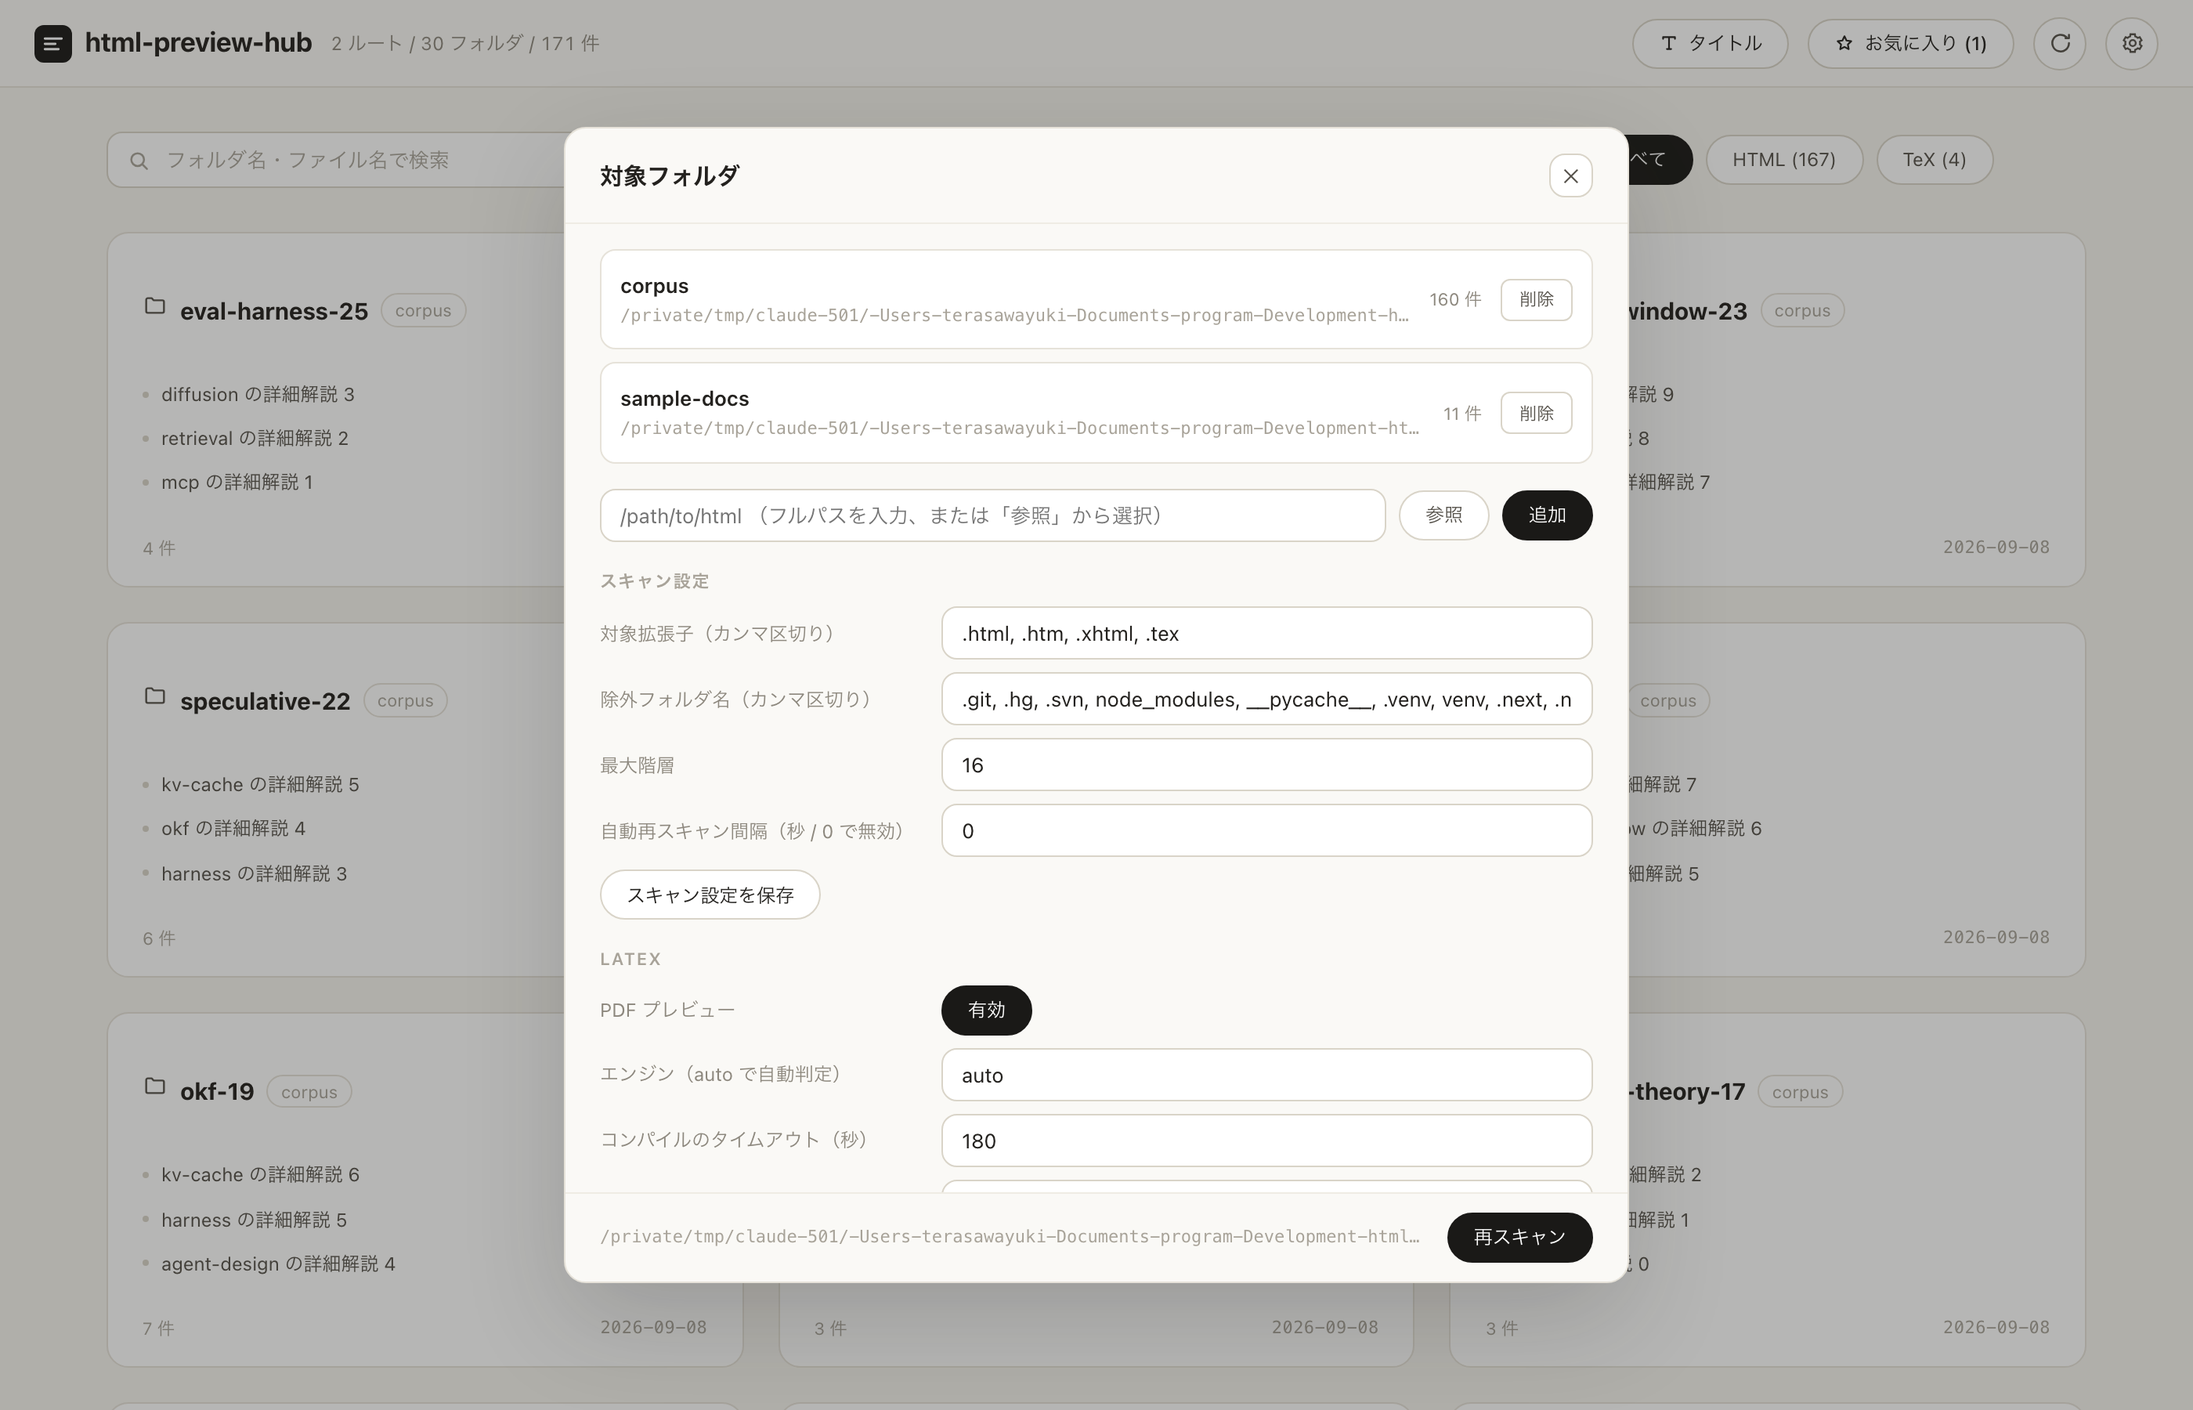
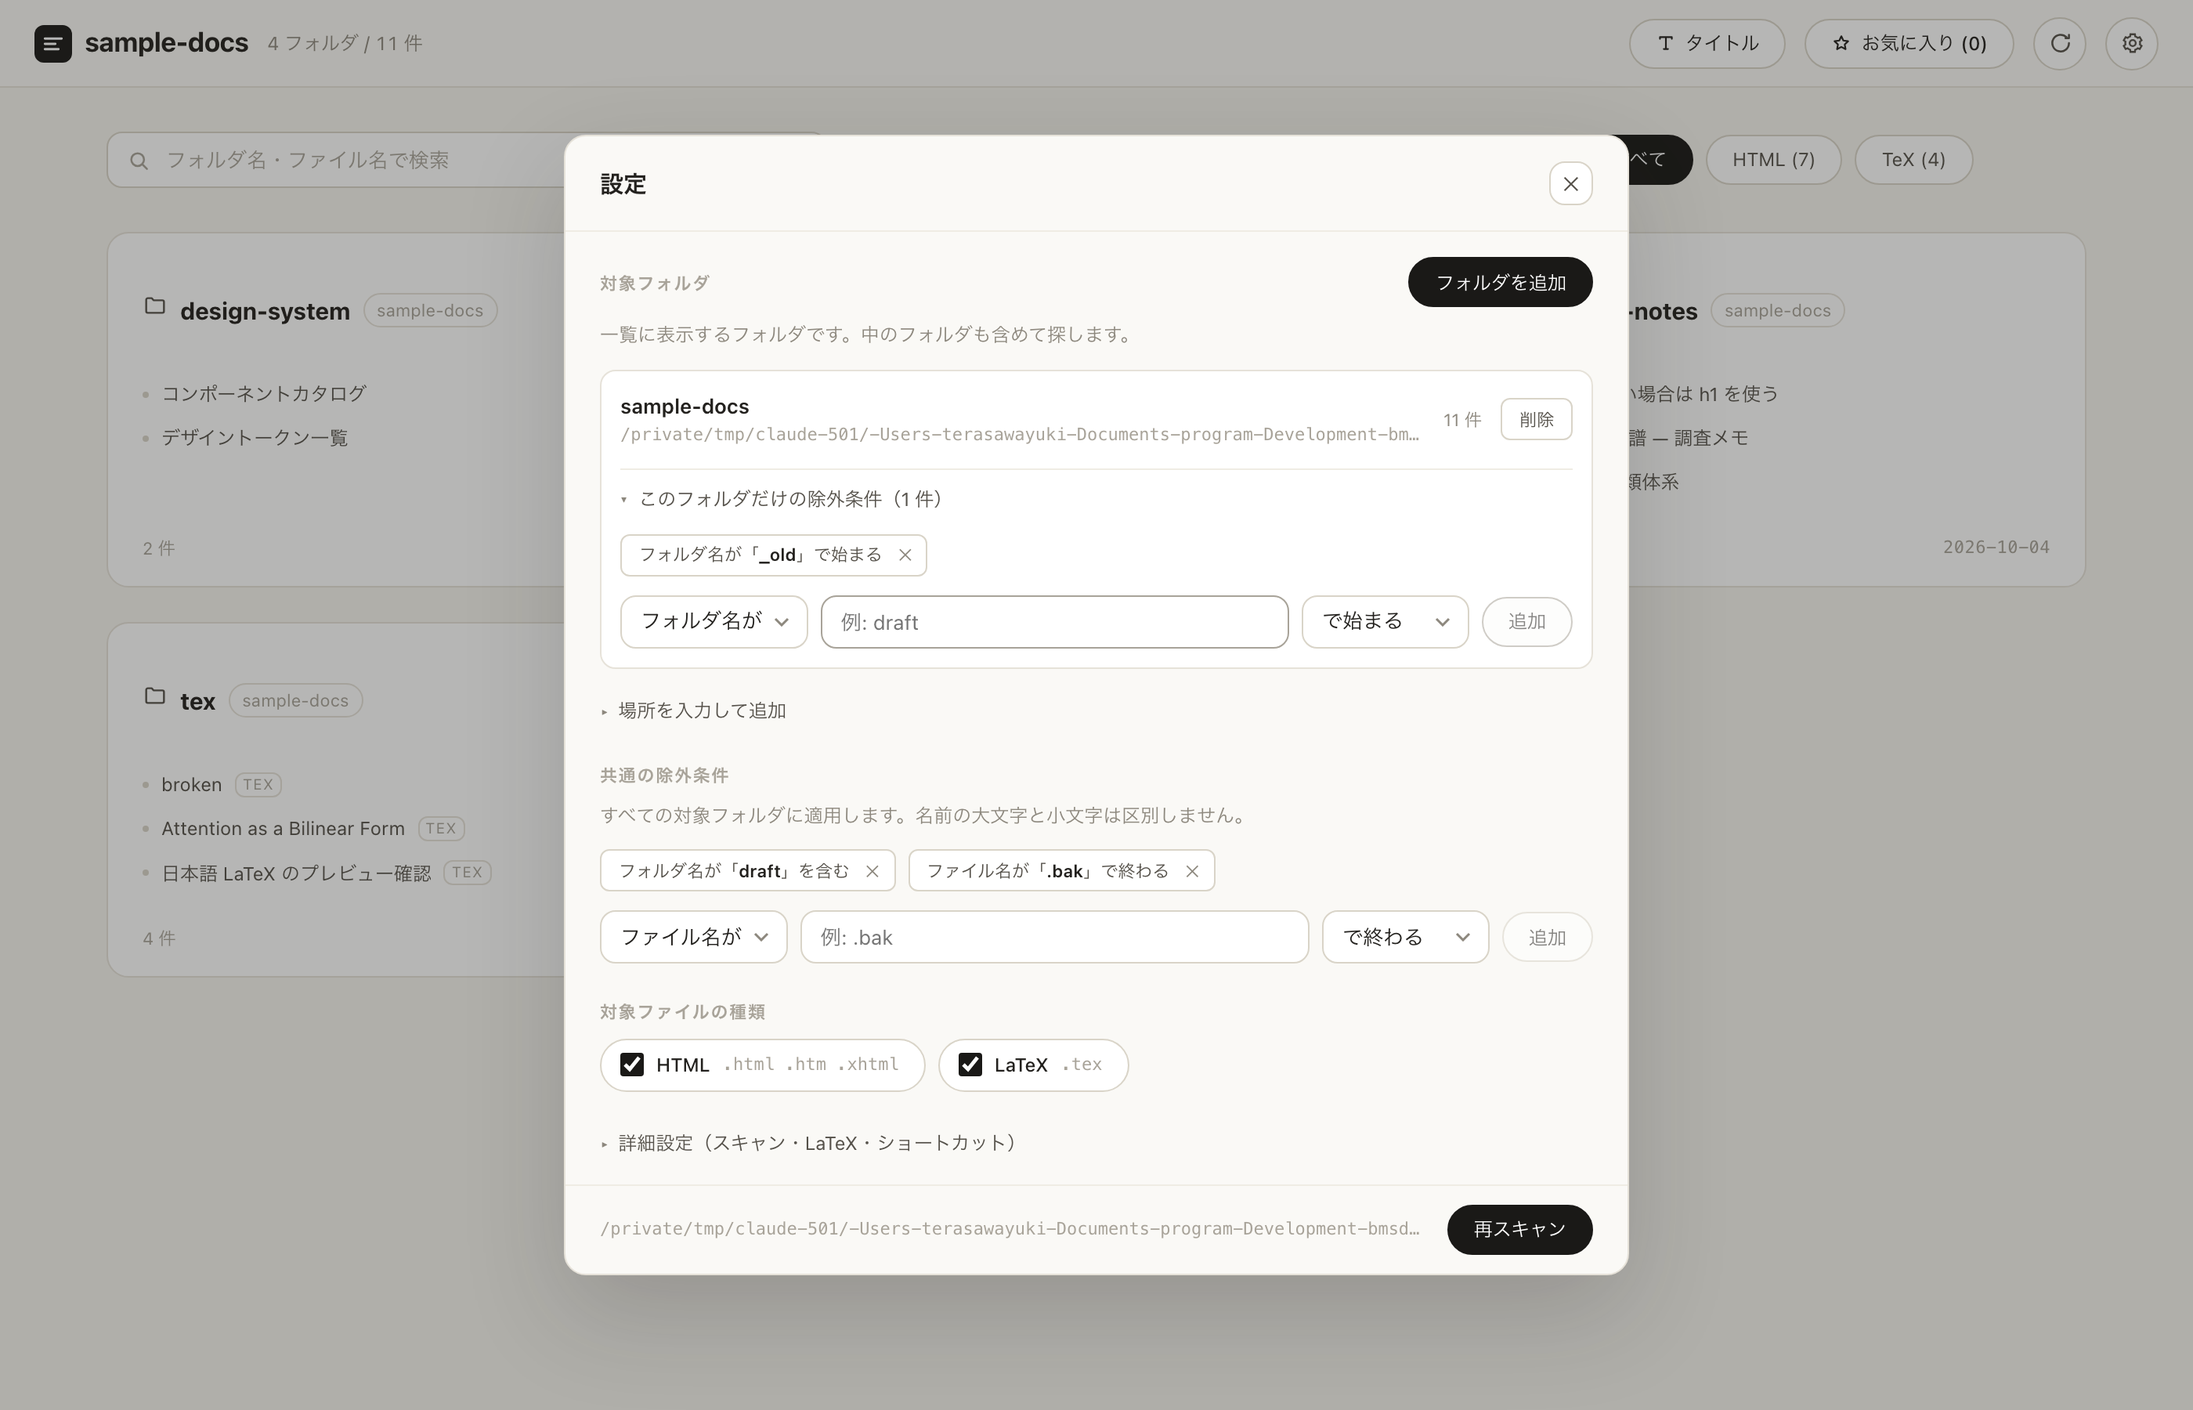
docs: 除外条件とフォルダの選択を文書に反映する
Claude-Session: https://claude.ai/code/session_01EVah3xdQJ6H4bRWP4VoebM

diff --git a/docs/architecture.md b/docs/architecture.md
@@ -28,7 +28,9 @@ html-preview-hub/
 │   ├── config.py             # 設定の読み書き・ルート管理
 │   ├── instance.py           # 起動済みインスタンスの検出（二重起動の防止）
 │   ├── browser.py            # 起動時にブラウザで画面を開く（サーバーの応答を待つ）
+│   ├── rules.py              # 除外ルールの検証と判定
 │   ├── scanner.py            # 再帰スキャンとタイトル抽出（HTML / LaTeX）
+│   ├── picker.py             # OS のフォルダ選択画面を開く
 │   ├── tex.py                # LaTeX のエンジン判定・コンパイル・キャッシュ
 │   ├── texjobs.py            # LaTeX コンパイルのバックグラウンド実行と状態管理
 │   ├── texfont.lua           # フォント未検出時に読み込ませる代替フォント定義（LuaTeX）
@@ -46,7 +48,7 @@ html-preview-hub/
 │           ├── state.js      # 状態管理と検索インデックス
 │           ├── util.js       # DOM / 整形ユーティリティ
 │           ├── virtual-list.js  # 固定行高の仮想スクロール
-│           └── views/        # home / tree / preview / settings
+│           └── views/        # home / tree / preview / settings（設定は root-list・root-add・root-parts・exclude-editor・settings-advanced に分割）
 ├── sample-docs/              # 動作確認用のサンプル（HTML と LaTeX）
 ├── docs/                      # ドキュメント（本書・API 仕様・設定・使い方・スクリーンショット）
 └── tests/                     # pytest（+ 任意の Playwright E2E）
@@ -59,7 +61,9 @@ html-preview-hub/
 | `config.py` | 設定ファイルの探索・読み書き・ルートフォルダの追加/削除、既定値の一元管理 |
 | `instance.py` | 指定ホスト・ポートが空いているか、html-preview-hub が起動済みか、別のアプリが使用中かを `/api/health` への問い合わせで判定する |
 | `browser.py` | サーバーが `/api/health` に応答するまで別スレッドで待ち、既定のブラウザで画面を開く |
+| `rules.py` | 除外ルール（対象・条件・値）の検証と、名前がルールに当てはまるかの判定（大文字・小文字を区別しない） |
 | `scanner.py` | ルート配下の再帰スキャンと、HTML / LaTeX からのタイトル抽出（`(mtime, size)` キャッシュ付き） |
+| `picker.py` | OS ごとの手段（`osascript` / PowerShell / `zenity` / `kdialog`）でフォルダ選択画面を開き、結果を selected / cancelled / unavailable で返す |
 | `tex.py` | LaTeX エンジンの判定・コンパイル実行・PDF キャッシュの管理 |
 | `texjobs.py` | コンパイルをバックグラウンドジョブとして実行し、状態を保持する（ファイル単位で相乗り、異なるファイルは並列） |
 | `texfont.lua` | luaotfload の名前解決にフックし、見つからないフォントを TeX Live 同梱のフォントへ読み替える。フォント未検出で失敗したときの再試行でのみ読み込む |
@@ -69,6 +73,9 @@ html-preview-hub/
 | `server.py` | FastAPI のルーティング定義、静的アセットの提供 |
 | `rawfiles.py` | `/raw` によるファイル配信（ディレクトリの index 解決・MIME 判定・iframe 用のエラーページ） |
 | `static/js/*` | SPA のルーティング・状態管理・検索・各画面（home / tree / preview / settings）の描画 |
+| `static/js/views/exclude-editor.js` | 除外条件の部品（札の並びと追加行）。共通とフォルダごとで使い回す |
+| `static/js/views/root-list.js` `root-parts.js` `root-add.js` | 対象フォルダの一覧・削除の確認・アプリ内の一覧・フォルダの追加（選択画面の呼び出し） |
+| `static/js/views/settings-advanced.js` | 設定の「詳細設定」（スキャン・LaTeX・ショートカット） |
 
 ## 3. 処理フロー
 
@@ -96,6 +103,7 @@ html-preview-hub/
 - **プレビューの分離**: `/raw` 配下のコンテンツは既定で `allow-same-origin` を付けない `sandbox` 属性の iframe に読み込みます。これにより unique origin となり、プレビュー対象の CSS / JS はアプリ本体の DOM・localStorage・Cookie に一切干渉できません。
 - **パストラバーサル対策**: `paths.resolve_within_root()` が `..` や絶対パスを拒否し、解決後の実パスがルート配下に収まっているかを検証します。ルート外へのシンボリックリンクも拒否されます（`follow_symlinks` が有効な場合を除く）。
 - **シェルエスケープの禁止**: LaTeX のコンパイルは常に `-no-shell-escape` を付けて実行し、`\write18` によるシェルコマンド実行を許しません。
+- **フォルダ選択の呼び出し元**: `POST /api/pick-folder` は利用者の PC に選択画面を出すため、要求元がループバックであること・`Host` が `localhost` / `127.0.0.1` / `::1` であること・`Origin` があれば `Host` と一致することを確かめ、満たさなければ `403` を返します。`Host` の確認は DNS リバインディング（攻撃者のドメインを `127.0.0.1` に解決させて呼び出す手口）を、`Origin` の確認は他のサイトからの呼び出しを防ぎます。
 - **バインド先**: 既定のバインド先は `127.0.0.1` です。`--host 0.0.0.0` で公開すると、`/api/browse` を含めローカルのファイル情報が同一ネットワークへ露出するため、信頼できるネットワーク以外では避けてください。
 
 ## 関連ドキュメント

diff --git a/docs/usage.md b/docs/usage.md
@@ -93,11 +93,25 @@ API 仕様は [api.md](./api.md) を参照してください。
 
 右上の ⚙ ボタン、または `,` キーで開きます。
 
-- **対象フォルダ** — フルパスを入力するか「参照」からディレクトリを選んで追加します。登録済みのフォルダは
-  名前・パス・件数が一覧表示され、「削除」で対象から外せます（フォルダが見つからない場合は一覧上でも分かります）。
-- **スキャン設定** — 対象拡張子、除外フォルダ名、最大階層、自動再スキャン間隔をこの画面から編集できます。
-- **LaTeX** — PDF プレビューの有効 / 無効、使用エンジン、タイムアウト、コンパイル回数を編集でき、
-  検出済みエンジン（pdflatex / xelatex / lualatex / tectonic など）もあわせて表示されます。
+- **対象フォルダ** — 「フォルダを追加」を押すと OS のフォルダ選択画面が開き、選んだフォルダがそのまま追加されます。
+  選択画面が使えない環境では、アプリ内のフォルダ一覧に切り替わります（macOS 以外の選択画面は実機で未確認です）。
+  「場所を入力して追加」を開くと、フォルダの場所を直接入力して追加することもできます。
+  登録済みのフォルダは名前・場所・件数が一覧表示され（見つからないフォルダは「（見つかりません）」と表示）、「削除」を押すと
+  同じ場所に確認が出ます。「削除する」で対象から外れます（フォルダの中身は消えません）。
+- **除外条件** — 一覧に出したくないフォルダやファイルを名前で指定します。登録済みの条件は
+  「フォルダ名が「draft」を含む」のような札で並び、✕ で削除できます（7 件以上は「ほか N 件を表示」で展開）。
+  追加は「フォルダ名が / ファイル名が」「名前」「と一致する / を含む / で始まる / で終わる」を選んで「追加」を押します。
+  大文字と小文字は区別せず、一致したフォルダは中身ごと一覧から外れます。
+  「共通の除外条件」はすべての対象フォルダに、各フォルダの「このフォルダだけの除外条件」はそのフォルダだけに効きます。
+  `node_modules`・`__pycache__`・`venv` と、名前が `.` で始まるフォルダは、指定しなくても常に対象外です。
+- **対象ファイルの種類** — 「HTML」（`.html` `.htm` `.xhtml`）と「LaTeX」（`.tex`）のチェックで選びます。
+  設定ファイルでほかの拡張子を指定している場合は「その他」として表示され、画面からは消せません。
+  「その他」が無く、チェックが 1 つだけオンのときは、そのチェックをオフにできません。
+- 対象フォルダ・除外条件・ファイルの種類は、操作した時点で保存されます（保存ボタンはありません）。
+  保存に失敗したときは通知が出て、画面は保存前の状態に戻ります。
+- **詳細設定**（初期状態では閉じています） — 「スキャン設定」（最大階層・自動再スキャン間隔）を「スキャン設定を保存」で、
+  「LaTeX」（PDF プレビューの有効 / 無効、エンジン、タイムアウト、コンパイル回数）を「LaTeX 設定を保存」で保存します。
+  検出済みエンジン（pdflatex / xelatex / lualatex / tectonic など）もここに表示され、ショートカットの一覧もここにあります。
 - 上記以外の設定キー（`ignore_globs` や `tex_cache_limit` など）は設定ファイルを直接編集します。
   キーの一覧は [configuration.md](./configuration.md) を参照してください。
 - モーダル下部には現在読み込んでいる設定ファイルのパスと、「再スキャン」ボタン（手動での再スキャン）があります。

diff --git a/docs/configuration.md b/docs/configuration.md
@@ -27,9 +27,9 @@ cp config.example.json config.json
 
 | キー | 既定値 | 説明 |
 | --- | --- | --- |
-| `roots` | `[]` | `{ "name": 表示名, "path": フォルダ }` の配列 |
+| `roots` | `[]` | `{ "name": 表示名, "path": フォルダ, "exclude": ルールの配列 }` の配列。`name` と `exclude` は省略できます |
 | `include_extensions` | `[".html", ".htm", ".xhtml", ".tex"]` | 一覧に載せる拡張子 |
-| `ignore_dirs` | `.git`, `node_modules`, `dist` など | 走査しないフォルダ名 |
+| `exclude` | `[]` | すべてのルートに適用する除外ルールの配列（[除外ルール](#除外ルール)） |
 | `ignore_globs` | `[]` | 除外する相対パスの glob |
 | `max_depth` | `16` | 潜る階層の上限 |
 | `max_files` | `50000` | 読み込むファイル数の上限 |
@@ -38,6 +38,32 @@ cp config.example.json config.json
 | `watch_interval_seconds` | `4.0` | 自動再スキャン間隔（`0` で無効） |
 | `host` / `port` | `127.0.0.1` / `8765` | 待ち受け先 |
 | `open_browser` | `true` | 起動時にブラウザを開く |
+
+### 除外ルール
+
+`exclude`（全体）と `roots[].exclude`（そのフォルダだけ）は、同じ形のルールの配列です。スキャンは「全体 ＋ そのフォルダの除外」をまとめて判定します。
+
+```json
+{ "target": "folder", "match": "contains", "value": "draft" }
+```
+
+| 項目 | 値 |
+| --- | --- |
+| `target` | `folder`（フォルダ名に当てる。一致したフォルダは中身ごと走査しない）／ `file`（拡張子を含むファイル名に当てる） |
+| `match` | `equals`（一致）／ `contains`（含む）／ `prefix`（で始まる）／ `suffix`（で終わる） |
+| `value` | 名前。前後の空白を除いて 1〜200 文字で、`/` と `\` を含められない |
+
+- 大文字・小文字は区別しません。`folder` はルート配下のどの深さのフォルダにも当たります。
+- 1 つの配列に 100 件までです。3 項目とも同じルール（`value` は大文字・小文字を無視して比べる）は 1 件にまとめられます。
+- 形が不正なとき、設定ファイルでは起動を中止し（終了コード `2`）、API では `400` を返します。
+- 次のフォルダは常に走査せず、設定にも画面にも現れません。`node_modules`・`__pycache__`・`venv`（大文字・小文字は区別しない）と、名前が `.` で始まるフォルダです。
+- `ignore_globs` は全体の設定で、画面では編集できません。設定ファイルで指定します。
+
+旧形式の `ignore_dirs` が設定ファイルにある場合は、読み込み時に `exclude` へ移します。
+
+- 旧形式の既定値（`.git`・`.hg`・`.svn`・`node_modules`・`__pycache__`・`.venv`・`venv`・`dist`・`build` など 15 件）とまったく同じ集合なら、何も移しません。
+- それ以外は、常に除外される名前と `.` で始まる名前を除いた残りを `{"target": "folder", "match": "equals", "value": 名前}` として `exclude` に合流させます（重複はまとめます）。
+- 保存では `exclude` だけを書き、`ignore_dirs` は書きません。
 
 ### LaTeX 関連キー
 

diff --git a/README.md b/README.md
@@ -27,7 +27,7 @@
 - **お気に入り / 非表示フォルダ / 種類フィルタ** — 残したいものに星を付け、ノイズになるフォルダはカード右クリックで隠し、HTML と TeX はチップで切り替える。
 - **表示名の切り替え** — 一覧に出す名前を、文書のタイトル（既定）とファイル名でヘッダーのボタン（または `t` キー）から切り替えられる。設定はブラウザに保存される。
 - **自動追従** — バックグラウンドで再スキャンし、変更があればロングポーリングで画面に反映（手動リロード不要）。
-- **設定は UI からもファイルからも** — 対象フォルダの追加・削除、対象拡張子、除外フォルダ、階層の深さなどを画面上で編集し、JSON 設定ファイルに保存する。
+- **設定は UI からもファイルからも** — 対象フォルダを OS の選択画面で追加・削除し、除外する名前（全体共通とフォルダごと）、対象ファイルの種類、階層の深さなどを画面上で編集して、JSON 設定ファイルに保存する。
 
 ## 動作要件
 
